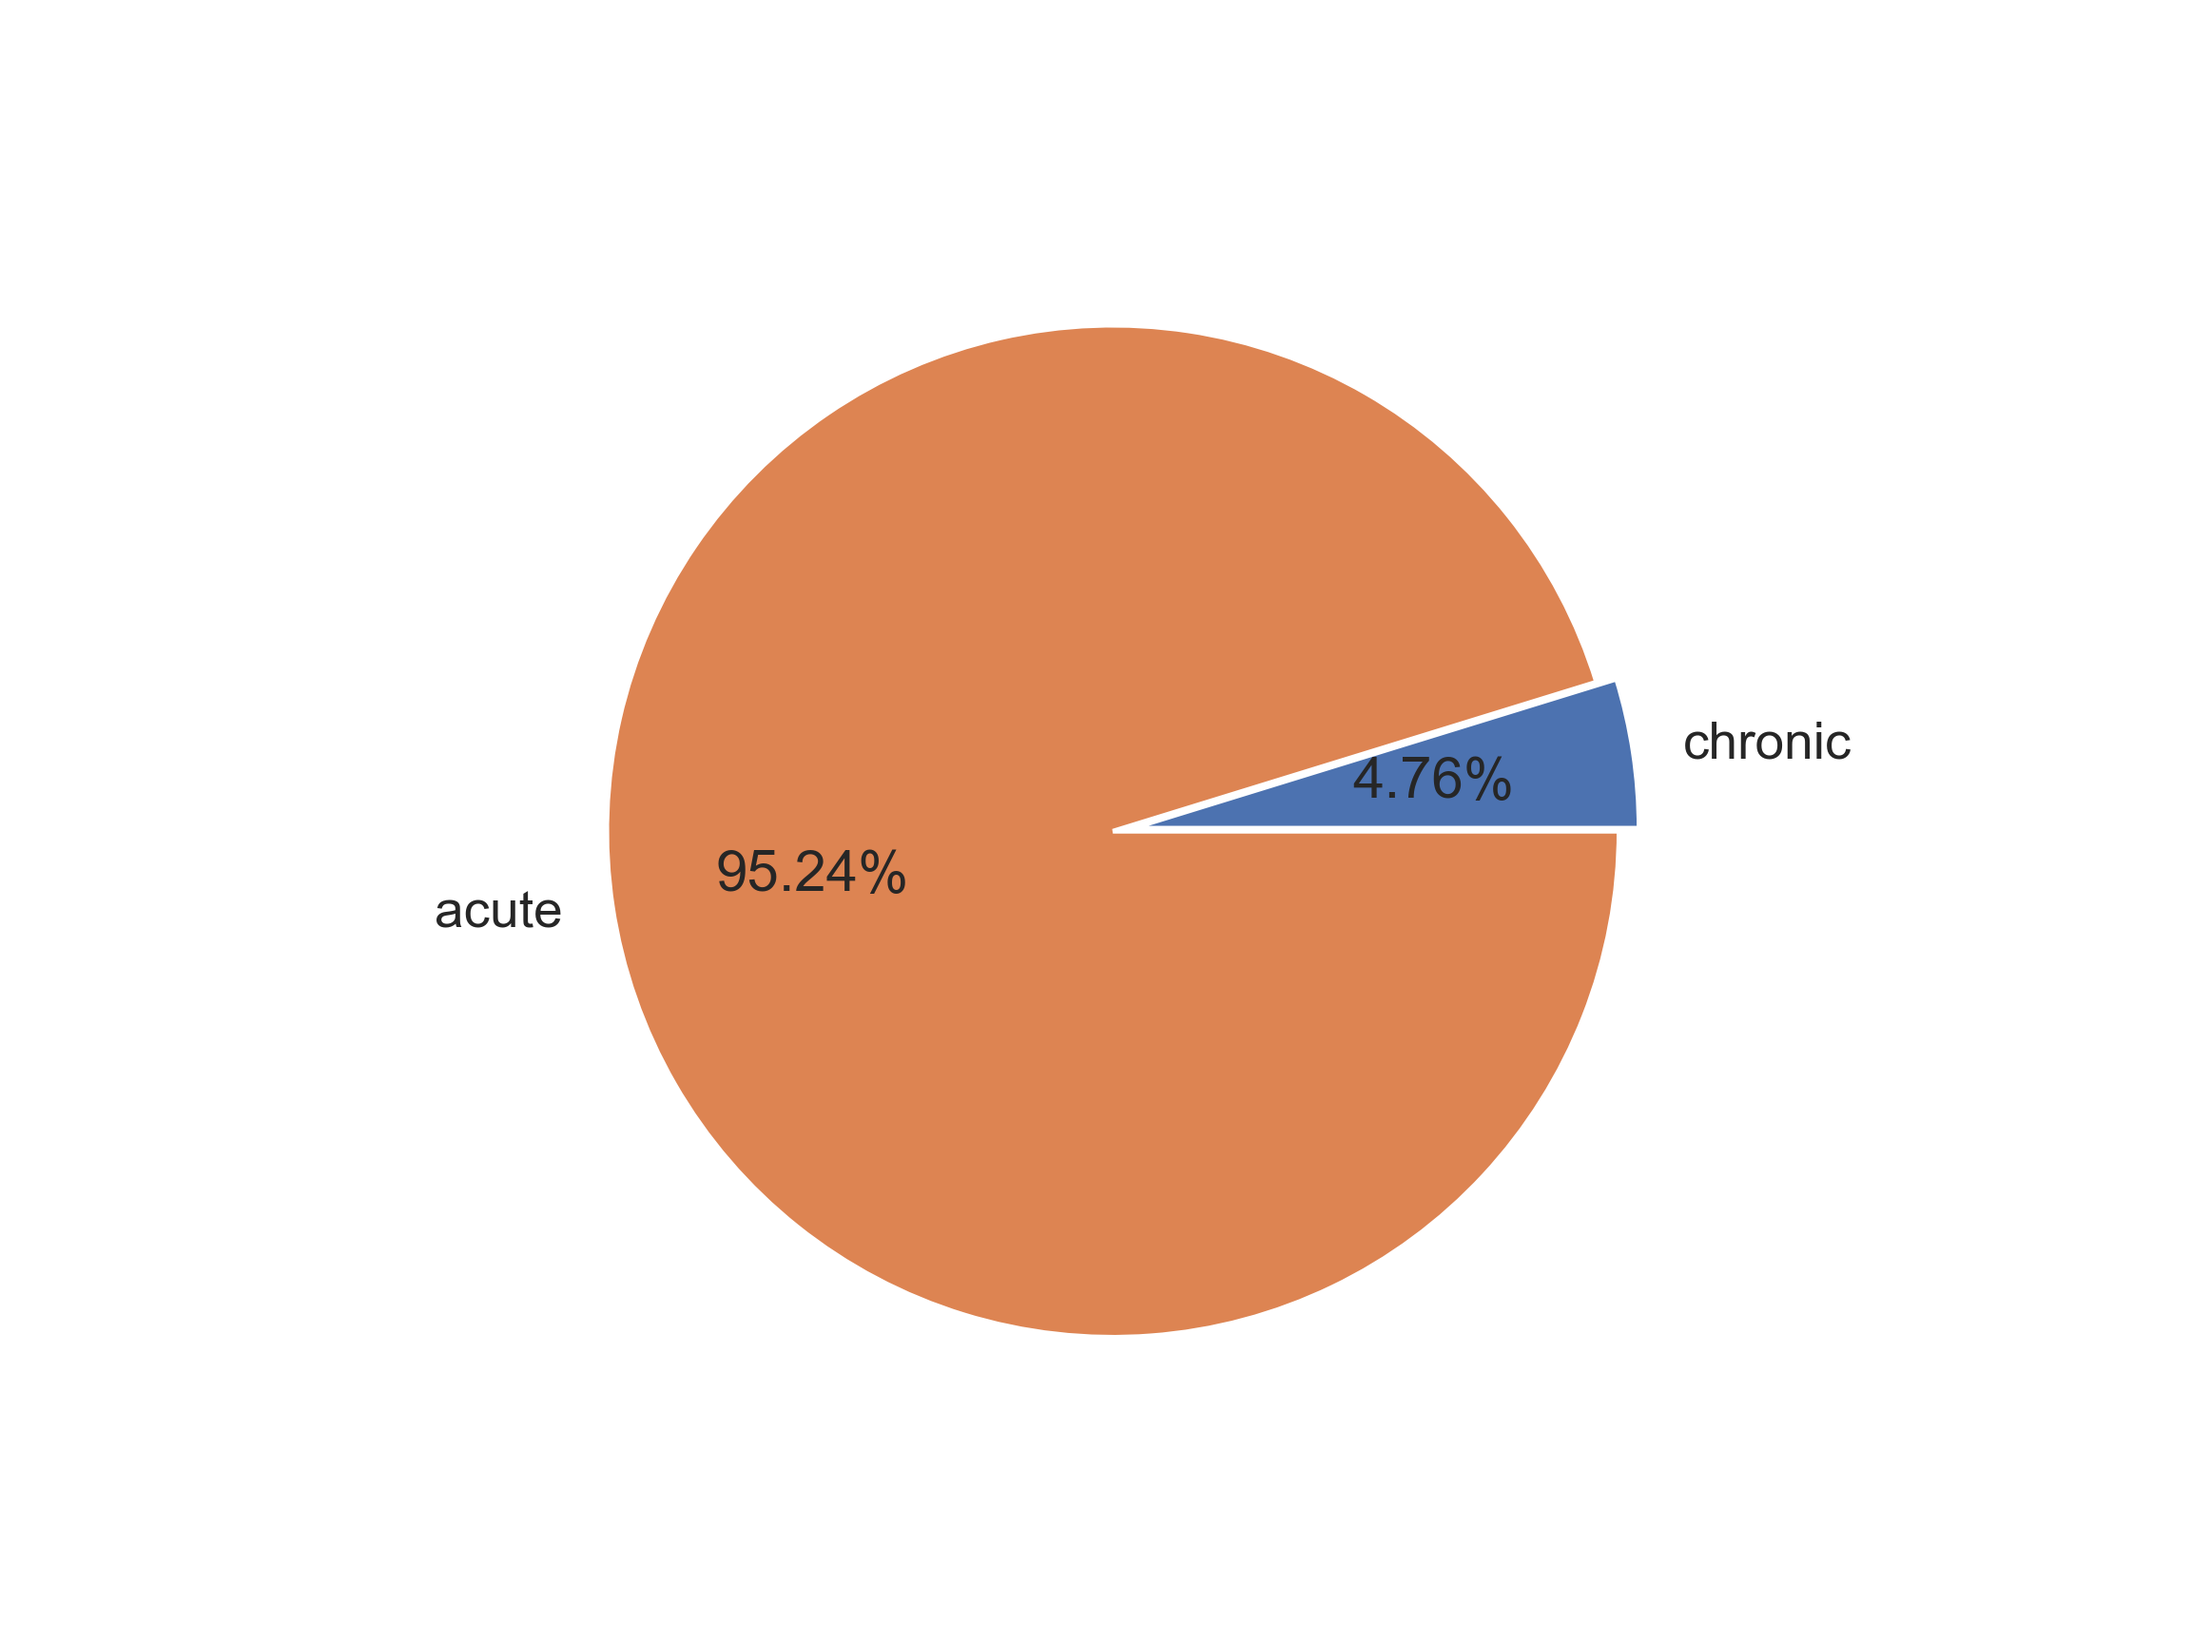
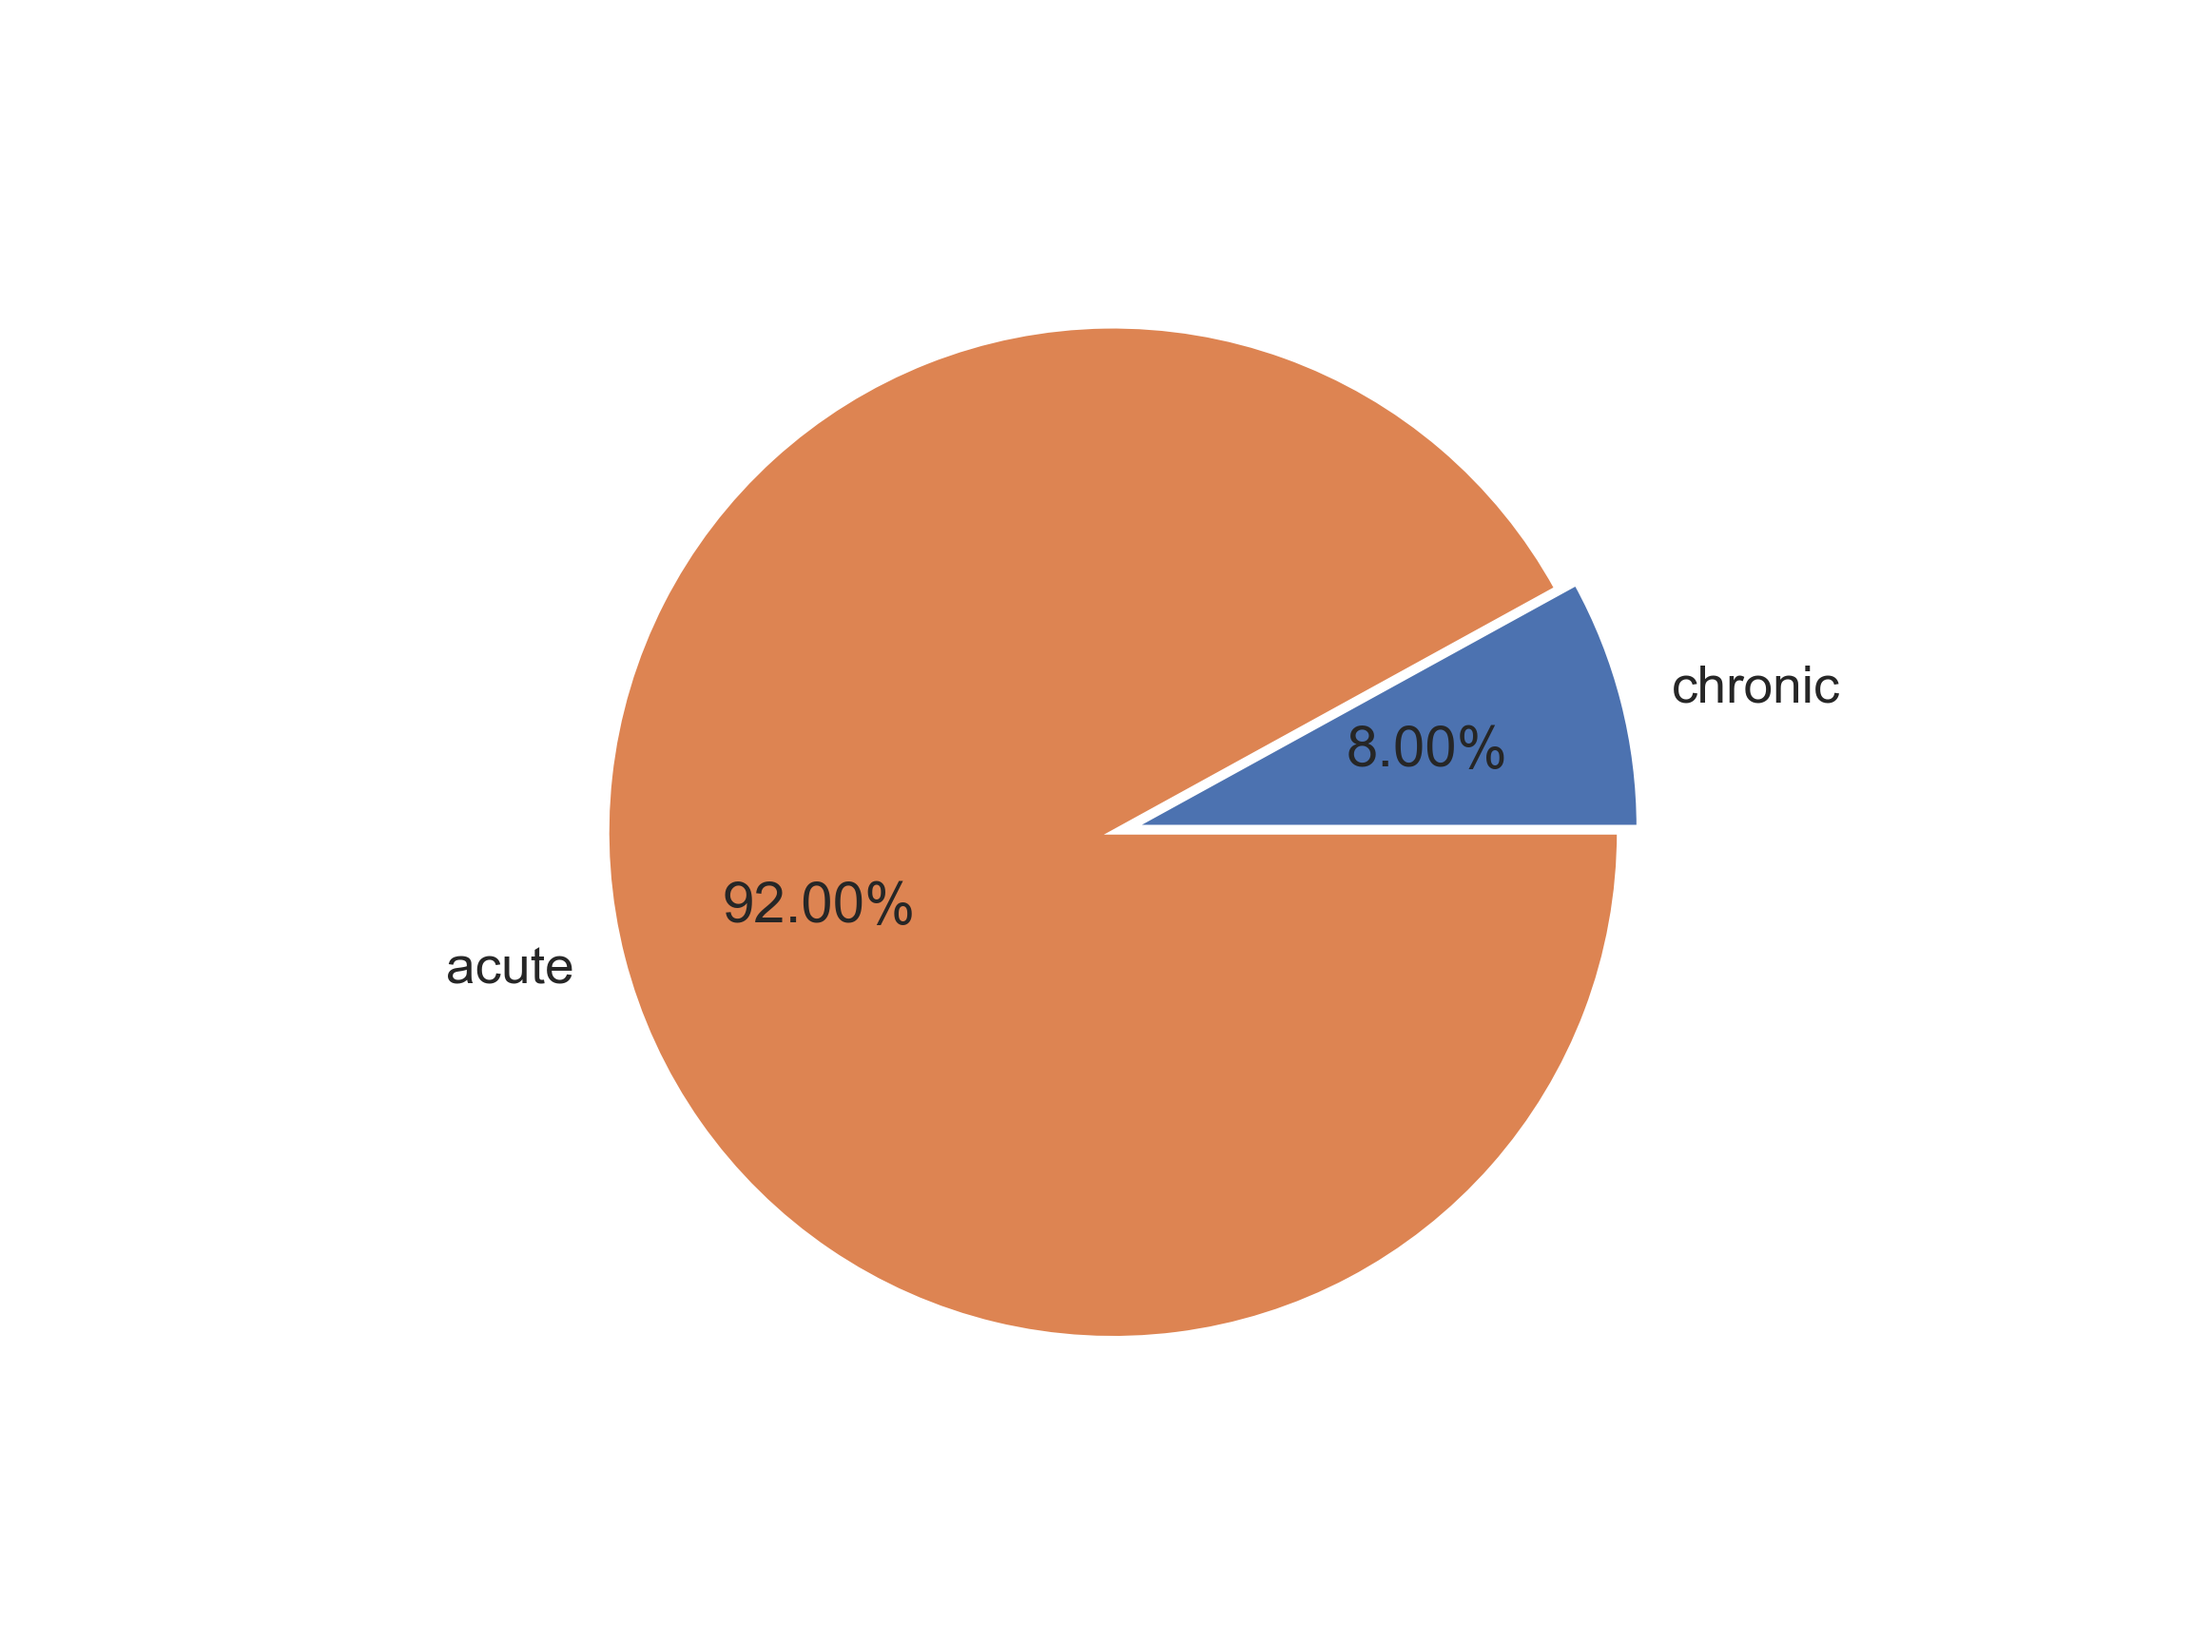
plots updated

Changed region(s): [[0.5312, 0.3438, 0.8438, 0.5], [0.3125, 0.5, 0.4375, 0.5625], [0.1875, 0.5312, 0.25, 0.5938]]

diff --git a/index.html b/index.html
@@ -103,7 +103,7 @@
    </div>
     <!-- About us Modal end here  -->
     <!-- carousel start here  -->
-    <div class="center carousel carousel-dark slide" data-bs-ride="carousel" id="carouselExample" data-interval="3000">
+    <div class="center carousel carousel-dark slide" data-bs-ride="carousel" id="carouselExample" data-mdb-animation="slide" data-interval="3000">
   <div class="carousel-inner">
     <div class="carousel-item active">
       <div class="row">

diff --git a/index.js b/index.js
@@ -413,7 +413,7 @@ cron.schedule(
 );
 
 cron.schedule(
-  "56 13 * * *",
+  "39 11 * * *",
   () => {
     require("./gendata.js");
     sendDataToPy();

diff --git a/main.py b/main.py
@@ -56,6 +56,8 @@ chronic = [
     "colorectal cancer",
     "depression",
     "type 2 diabetes",
+    "type 1 diabetes",
+    "diabetes",
     "arthritis",
     "osteoporosis",
     "asthma",
